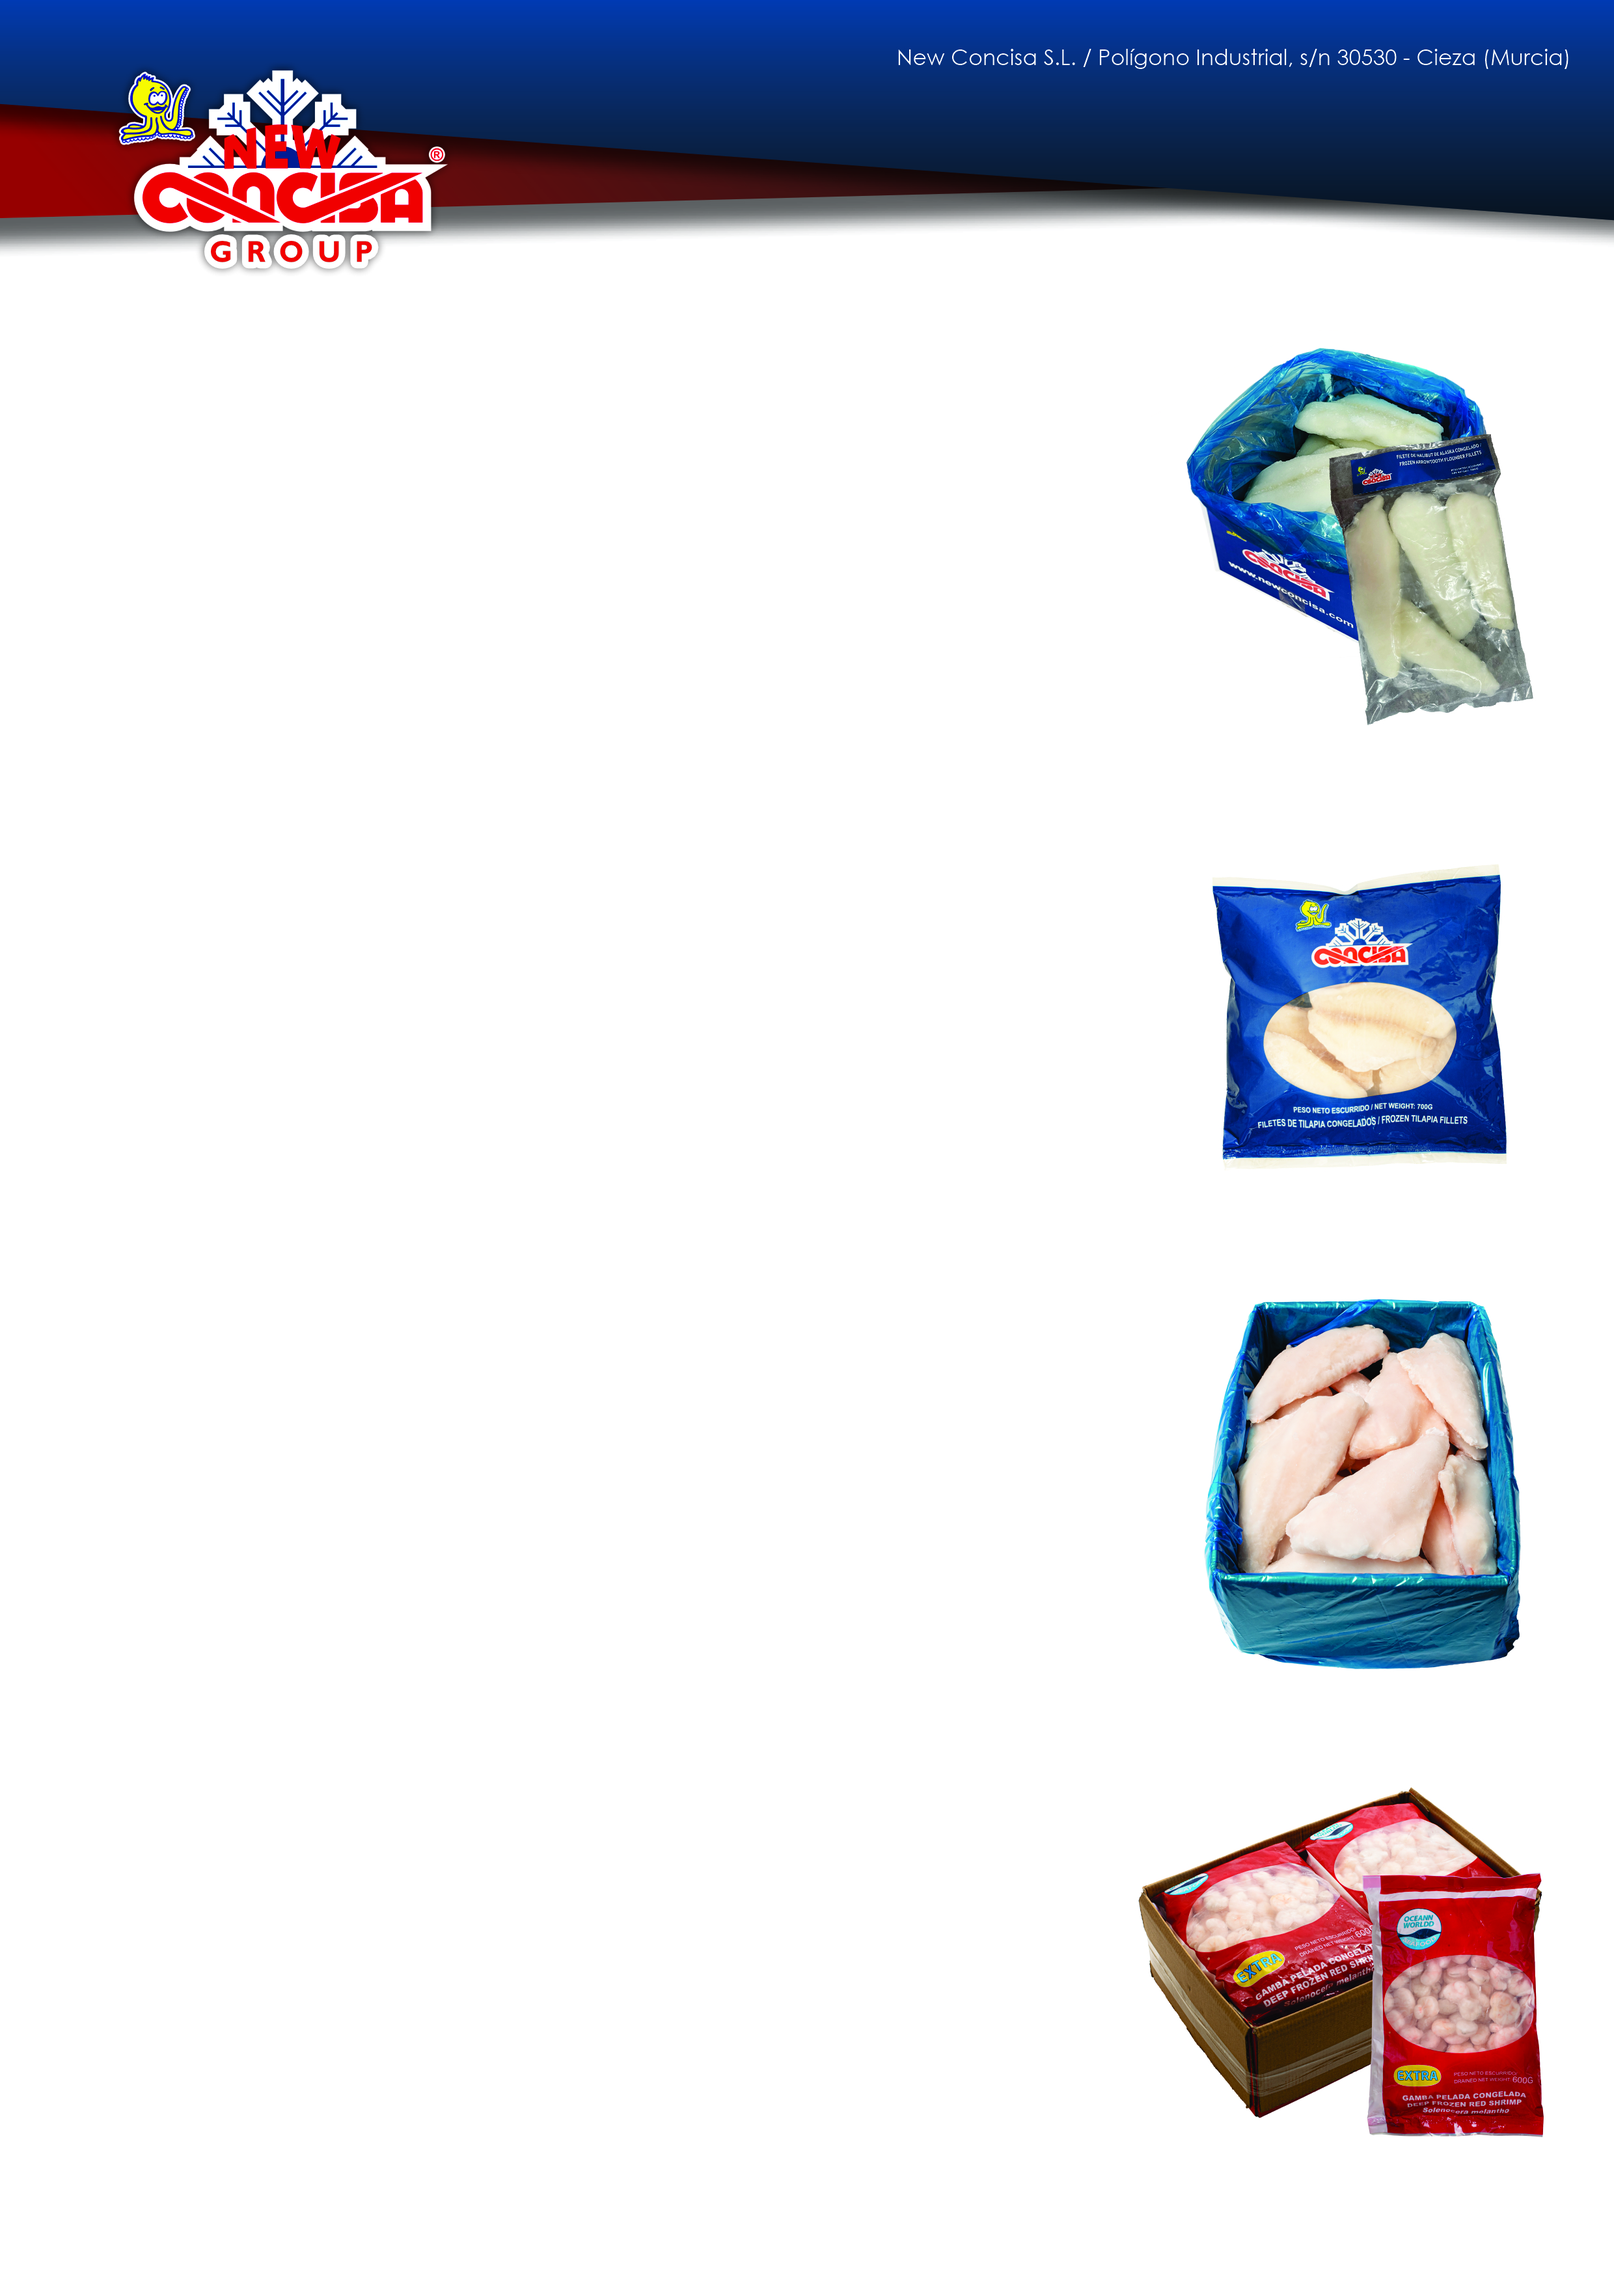
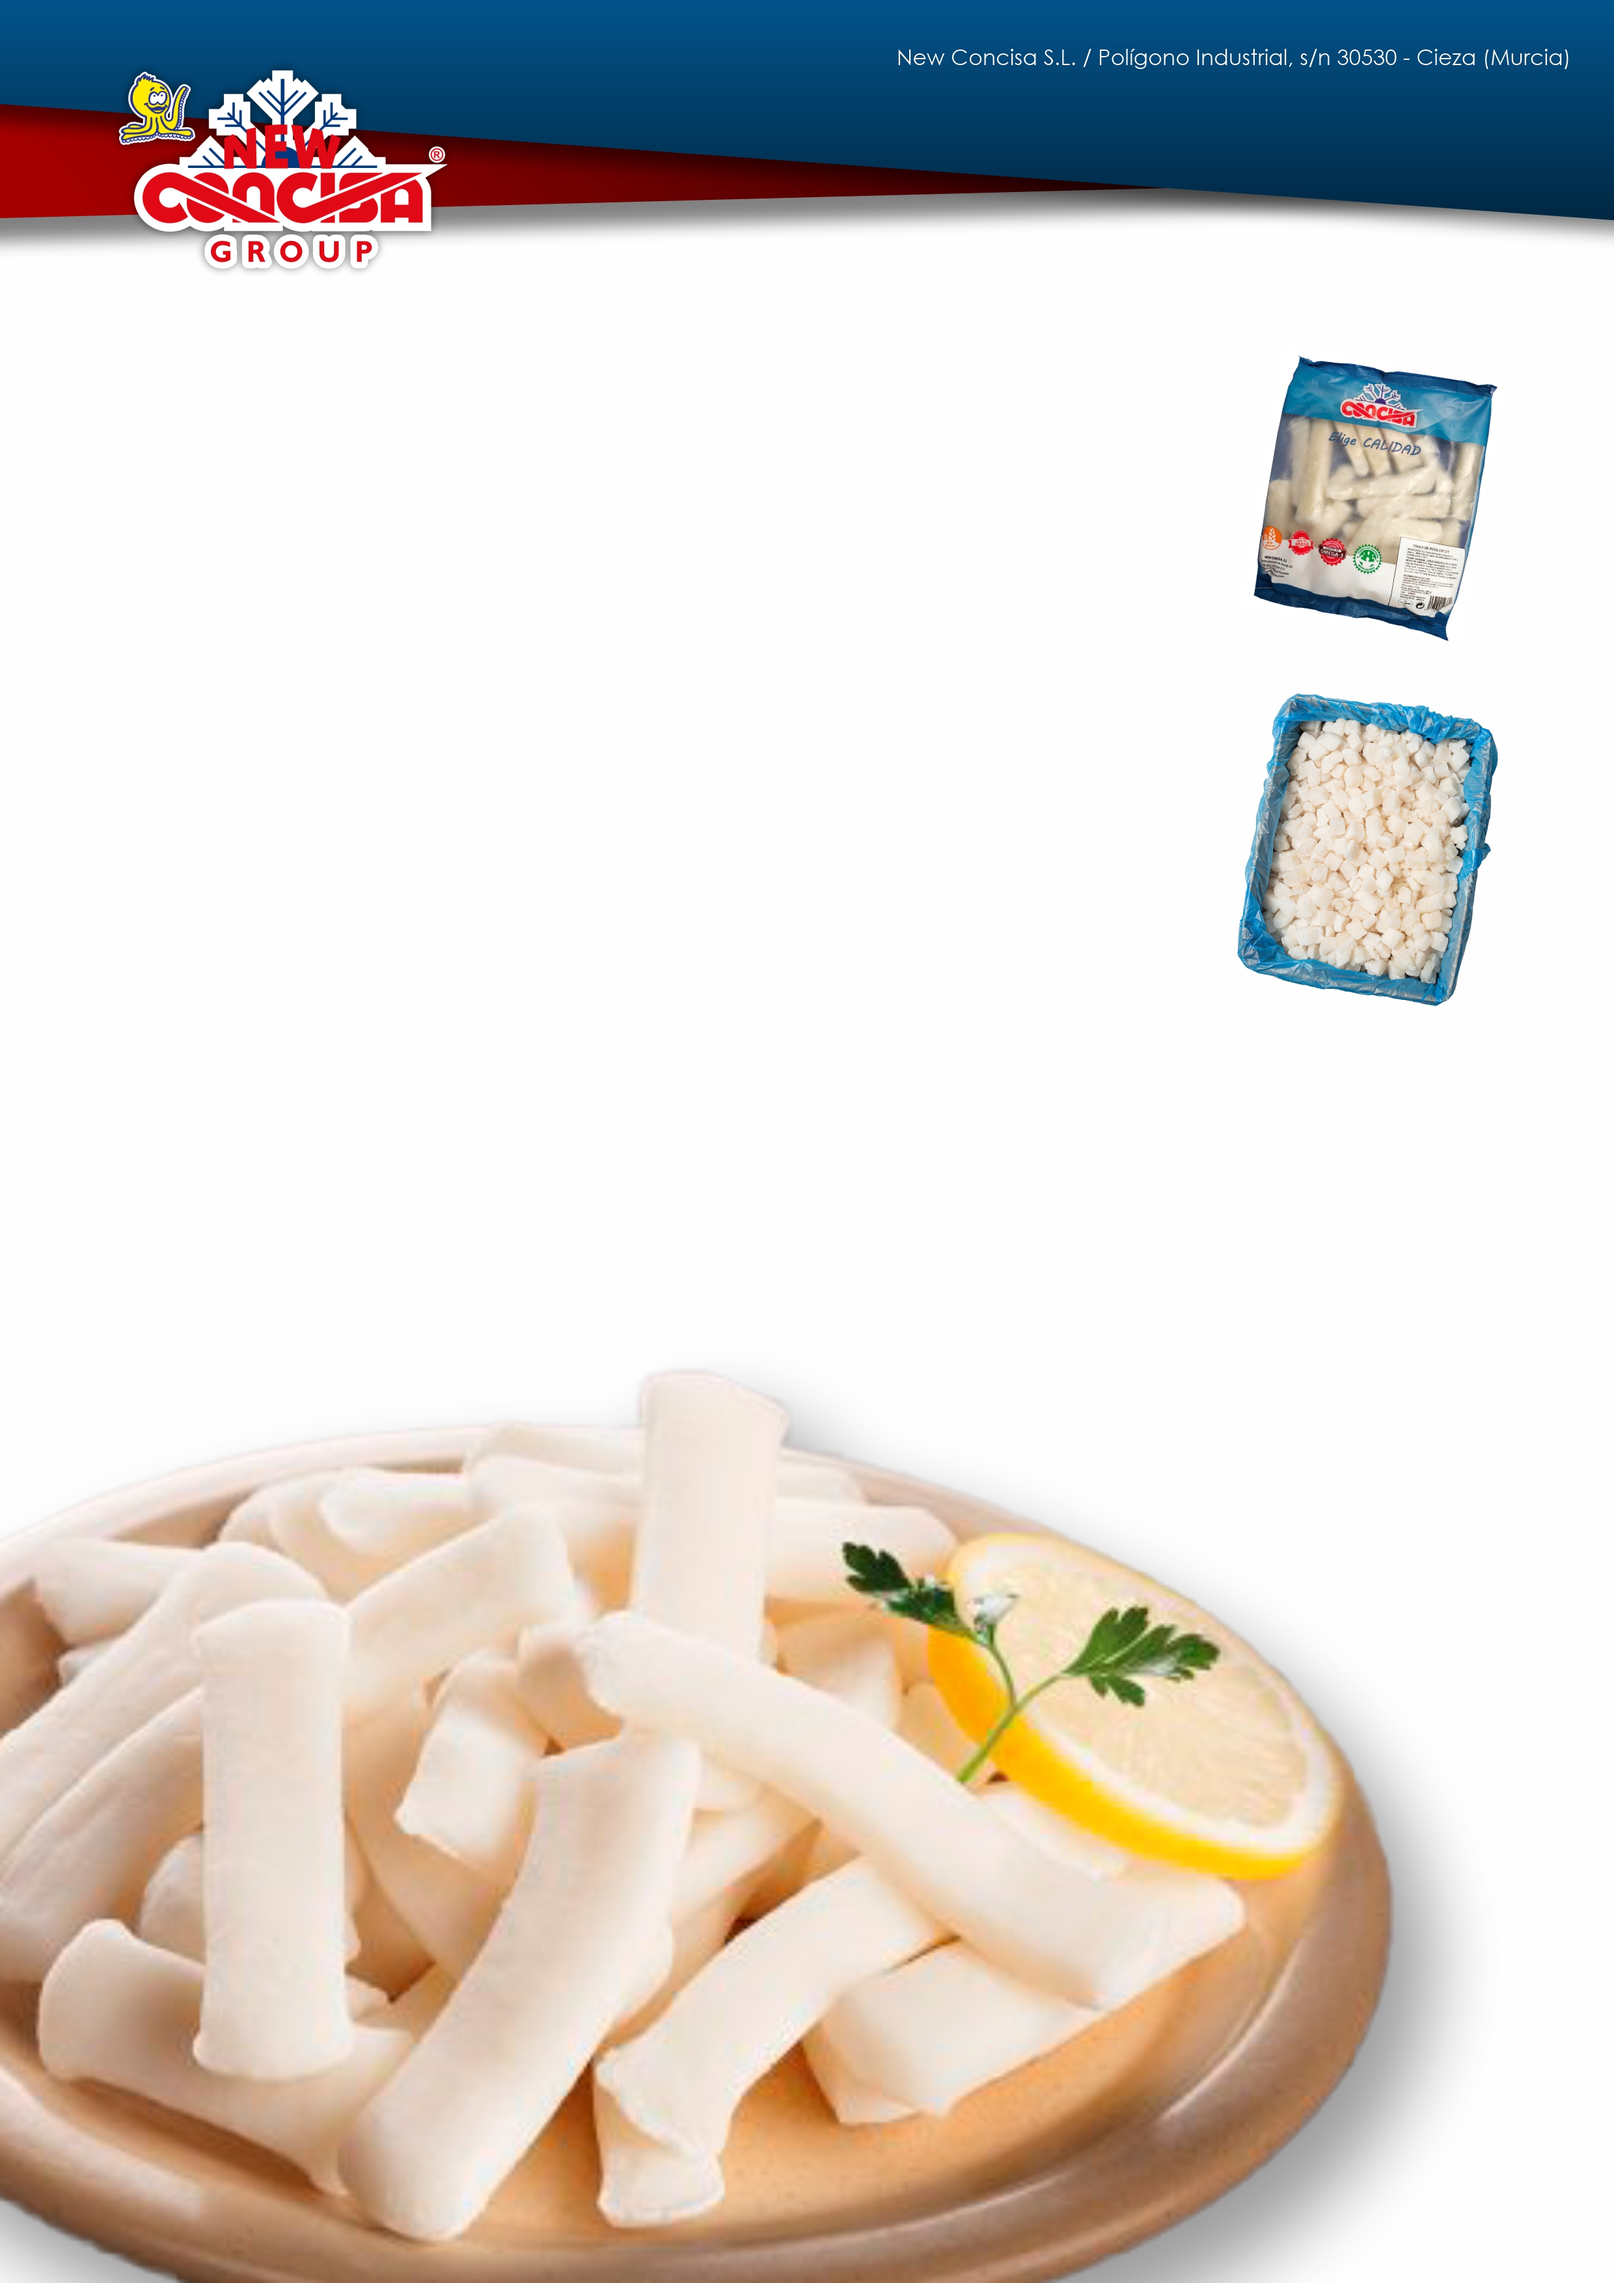
ajustes de nuevos fondos

diff --git a/app/Http/Controllers/GenerateResportController.php b/app/Http/Controllers/GenerateResportController.php
@@ -90,20 +90,22 @@ class GenerateResportController extends Controller
 
         Pdf::loadView('pdf.cover', [
             'name' => $tariff->name,
-            'background' => public_path('img/cover.jpg'),
+            'background' => public_path('img/PAGINAS-1.jpg'),
         ])->save('cover.pdf', 'local');
 
+        $currentProductsPage = 2;
         for ($i=0; $i < count($pages); $i++) {
             Pdf::loadView('pdf.page', [
-                'background' => '',
+                'background' => public_path("img/PAGINAS-{$currentProductsPage}.jpg"),
                 'tariff' => $tariff,
                 'data' => $pages[$i],
             ])->save("page-{$i}.pdf", 'local');
             $files[] = storage_path("app/private/page-{$i}.pdf");
+            $currentProductsPage++;
         }
 
         Pdf::loadView('pdf.final', [
-            'background' => public_path('img/final.jpg'),
+            'background' => public_path('img/PAGINAS-17.jpg'),
         ])->save('final.pdf', 'local');
 
         $files[] = storage_path('app/private/final.pdf');
